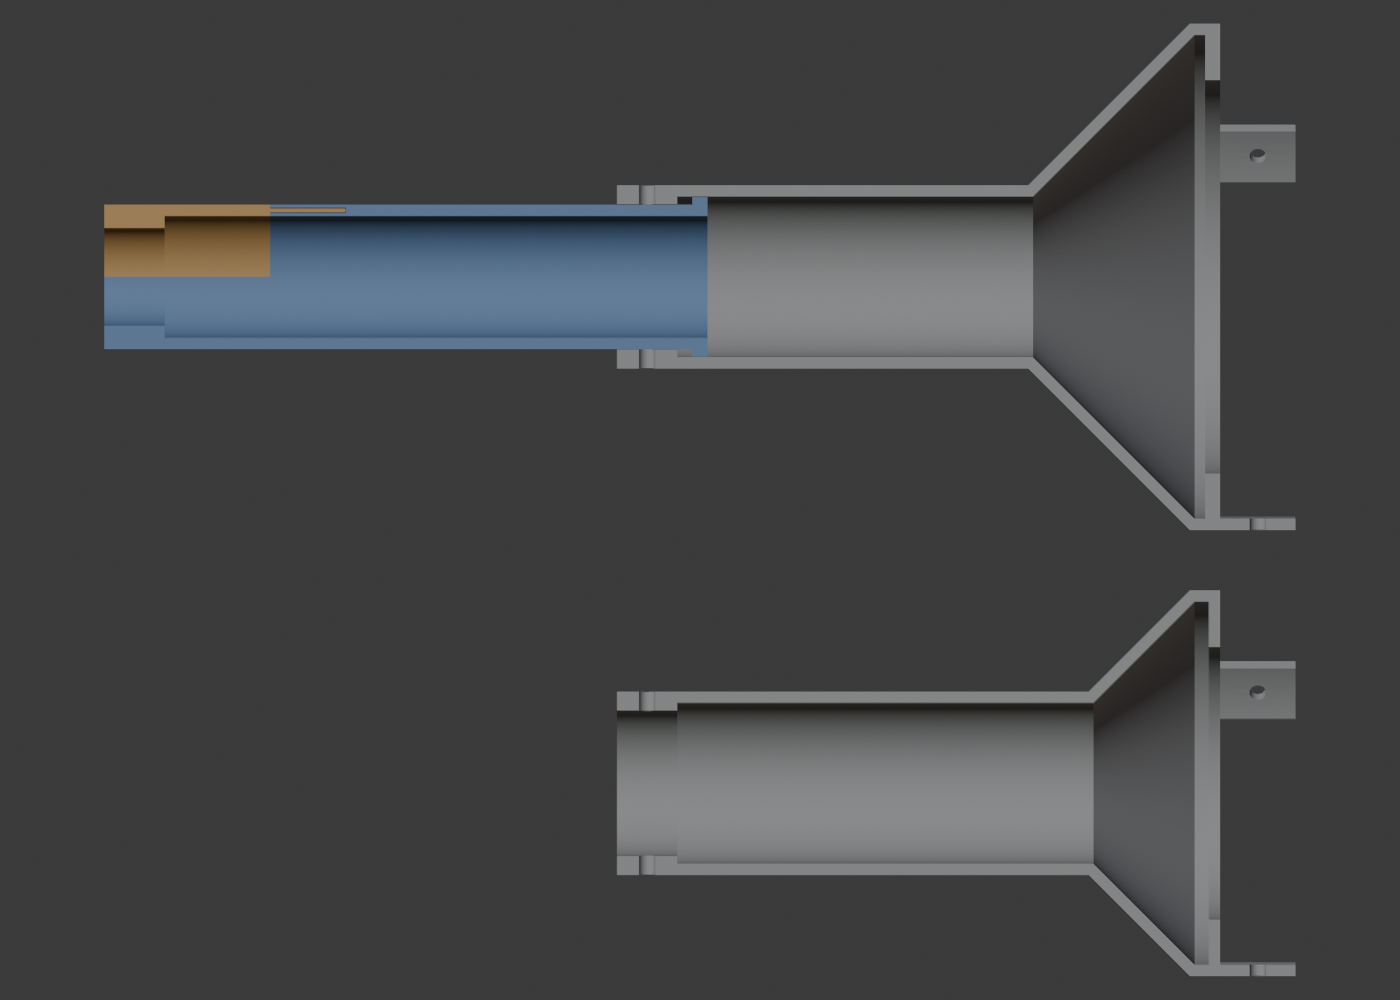
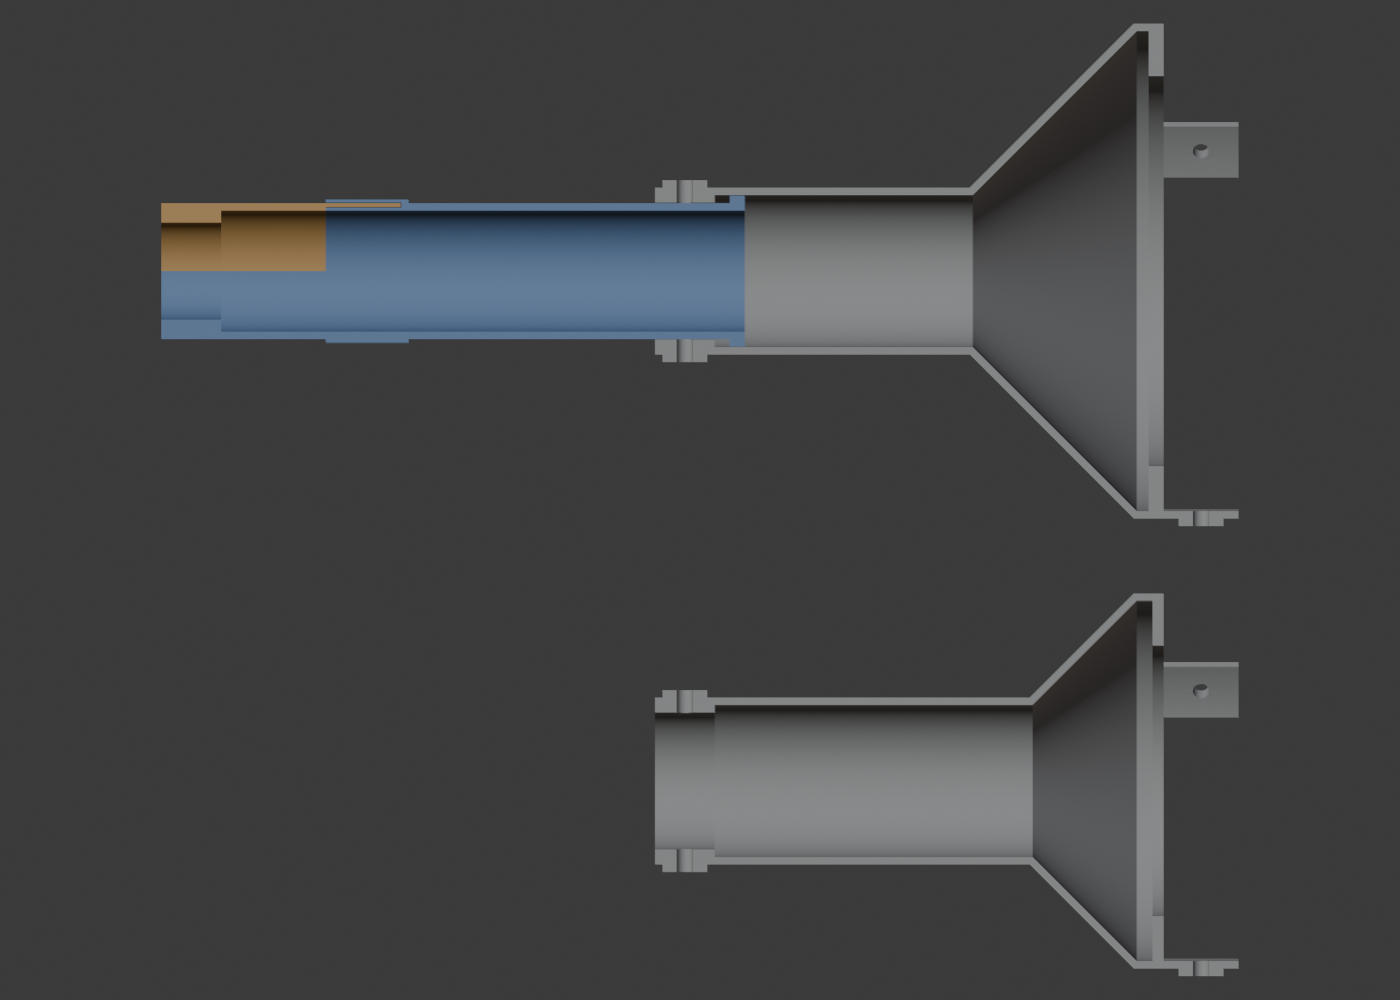
Fit the Ender-3 V2, thin walls to 1/8", pad screw holes and cover joint
ADAPTER_LENGTH 8.5" and MOUNT_LENGTH 9.75" keep every part under the
Ender-3 V2's 250 mm height. THICKNESS drops to 1/8". Each screw hole now
sits in a raised round pad, and the mount tube gets a band around the
tongue-and-groove joint so its walls stay printable. New PRINTER_MAX_HEIGHT
and PRINTER_BED_SIZE checks stop the build if a part won't fit.

Changed region(s): [[0.0614, 0.0, 0.9521, 0.527], [0.43, 0.589, 0.9521, 0.992]]

diff --git a/pld_camera_connector.py b/pld_camera_connector.py
@@ -25,7 +25,9 @@ A fourth, separate part sits below the assembly:
 
 All parameters are in inches (angles in degrees). The model itself is built in
 millimetres, so an exported STL comes out the right size for slicers; Blender
-displays lengths in inches. Every screw hole is sized to tap for 5/16"-24.
+displays lengths in inches. Every screw hole is sized to tap for 5/16"-24 and
+sits in a raised pad for more thread. The defaults fit an Ender-3 V2 with each
+part printed standing on end; the PRINTER_* checks enforce that.
 """
 
 import math
@@ -45,7 +47,8 @@ except ImportError:  # lets the profile math be checked outside Blender
 CAMERA_DIAMETER = 1.6        # camera neck, held at the camera end of the mount
 FOCUS_DIAL_DIAMETER = 2.0    # camera focus dial, the wider part of the camera
 VIEWPORT_DIAMETER = 8.0      # raised viewport flange the prongs clamp around
-THICKNESS = 3 / 16           # wall thickness of every part, including the prongs
+THICKNESS = 1 / 8            # wall thickness of every part, including the prongs
+                             # (screw holes and the cover joint get extra pads)
 
 
 # =============================================================================
@@ -62,16 +65,18 @@ FIT_CLEARANCE = 0.01         # radial gap wherever parts slide together or fit
                              # around the camera, glass or flange
 
 # ---- CameraMount and CameraCover --------------------------------------------
-MOUNT_LENGTH = 10.0          # overall length: neck section + focus dial section
+MOUNT_LENGTH = 9.75          # overall length: neck section + focus dial section
 NECK_BORE_LENGTH = 1.0       # length of the CAMERA_DIAMETER section at the camera end
 LIP_HEIGHT = 1 / 8           # radial height of the retaining lip at the chamber end
 LIP_THICKNESS = 1 / 4        # axial thickness of that lip
 COVER_LENGTH = 2.75          # length of the cover (= where the full tube starts)
 TONGUE_LENGTH = 1.25         # length of the cover's tongue that slides into the groove
 TONGUE_THICKNESS = 1 / 16    # radial thickness of the tongue
+JOINT_PAD_THICKNESS = 1 / 16 # extra wall on the outside of the mount tube where the
+                             # groove is, so the groove's walls aren't too thin
 
 # ---- ChamberAdapter ---------------------------------------------------------
-ADAPTER_LENGTH = 10.0        # front face to the face that sits on the flange (prongs extra)
+ADAPTER_LENGTH = 8.5         # front face to the face that sits on the flange (prongs extra)
 CONE_ANGLE = 45.0            # cone angle, degrees from the axis
 RIM_LENGTH = 0.5             # straight section between the cone and the flange face
 COLLAR_LENGTH = 1.0          # length of the bore that grips the mount tube
@@ -88,19 +93,21 @@ SCREW_HOLE_DIAMETER = 0.272  # tap drill (letter I), used for every screw hole
 SCREW_COUNT = 2              # collar set screws, evenly spaced
 SCREW_ANGLE = 90.0           # angle of the first collar screw (90 = straight up)
 SCREW_POSITION = None        # from the adapter front face; None = collar middle
+SCREW_PAD_DIAMETER = 0.75    # round pad on the outside around every screw hole
+SCREW_PAD_THICKNESS = 1 / 8  # how far the pad stands out, for more thread
 
 # ---- ChamberAdapter2: alternate 6" viewport, placed below the assembly ------
 # Each one means the same as the ChamberAdapter parameter with the same name
 # (ADAPTER2_LENGTH is the ADAPTER_LENGTH of this part).
 ADAPTER2_FOCUS_DIAL_DIAMETER = 2.0  # with ADAPTER2_THICKNESS, sets the tube size it fits
 ADAPTER2_VIEWPORT_DIAMETER = 6.0
-ADAPTER2_THICKNESS = 3 / 16
+ADAPTER2_THICKNESS = 1 / 8
 ADAPTER2_GLASS_DIAMETER = 4.5
 ADAPTER2_RECESS_DEPTH = 3 / 16
 ADAPTER2_FLANGE_HEIGHT = 1.375
 ADAPTER2_FIT_CLEARANCE = 0.01
 ADAPTER2_LIP_HEIGHT = 1 / 8
-ADAPTER2_LENGTH = 10.0
+ADAPTER2_LENGTH = 8.5
 ADAPTER2_CONE_ANGLE = 45.0
 ADAPTER2_RIM_LENGTH = 0.5
 ADAPTER2_COLLAR_LENGTH = 1.0
@@ -113,11 +120,17 @@ ADAPTER2_SCREW_HOLE_DIAMETER = 0.272
 ADAPTER2_SCREW_COUNT = 2
 ADAPTER2_SCREW_ANGLE = 90.0
 ADAPTER2_SCREW_POSITION = None
+ADAPTER2_SCREW_PAD_DIAMETER = 0.75
+ADAPTER2_SCREW_PAD_THICKNESS = 1 / 8
 ADAPTER2_GAP = 1.0                  # space between the assembly and ChamberAdapter2
 
 # ---- Size -------------------------------------------------------------------
 SCALE = 1.0                  # uniform scale for the whole finished model; the screw
                              # holes and clearances scale with it
+
+# ---- Printer (each part is checked printed standing on end) -----------------
+PRINTER_MAX_HEIGHT = 250 / 25.4  # Ender-3 V2: 250 mm; None skips the check
+PRINTER_BED_SIZE = 220 / 25.4    # Ender-3 V2: 220 x 220 mm; None skips the check
 
 # ---- Display ----------------------------------------------------------------
 SEGMENTS = 128               # facets around the axis (keep it a multiple of 4)
@@ -141,7 +154,8 @@ ADAPTER_KEYS = ("FOCUS_DIAL_DIAMETER", "VIEWPORT_DIAMETER", "THICKNESS", "GLASS_
                 "RECESS_DEPTH", "FLANGE_HEIGHT", "FIT_CLEARANCE", "LIP_HEIGHT", "ADAPTER_LENGTH",
                 "CONE_ANGLE", "RIM_LENGTH", "COLLAR_LENGTH", "PRONG_COUNT", "PRONG_WIDTH",
                 "PRONG_LENGTH", "PRONG_ANGLE", "PRONG_SCREW_POSITION", "SCREW_HOLE_DIAMETER",
-                "SCREW_COUNT", "SCREW_ANGLE", "SCREW_POSITION")
+                "SCREW_COUNT", "SCREW_ANGLE", "SCREW_POSITION", "SCREW_PAD_DIAMETER",
+                "SCREW_PAD_THICKNESS")
 
 
 def param_name(prefix, key):
@@ -190,6 +204,11 @@ def adapter_geometry(prefix=""):
     a["prong_half_angle"] = math.degrees(p["PRONG_WIDTH"] / 2 / r_mid)
     count = p["PRONG_COUNT"]
     a["prong_angles"] = [p["PRONG_ANGLE"] + 360.0 * i / count for i in range(count)]
+
+    # Size when printed standing on end, for the printer checks and layout.
+    pad = p["SCREW_PAD_THICKNESS"]
+    a["max_r"] = max(a["prong_out"] + (pad if count else 0), a["out"] + (pad if p["SCREW_COUNT"] else 0))
+    a["height"] = a["z_tip"] if count else a["z_end"]
     return a
 
 
@@ -201,12 +220,16 @@ def derived():
     g["r_neck"] = CAMERA_DIAMETER / 2 + FIT_CLEARANCE
     g["r_body"] = FOCUS_DIAL_DIAMETER / 2 + FIT_CLEARANCE
     g["r_out"] = g["r_body"] + THICKNESS
-    r_mid = (g["r_body"] + g["r_out"]) / 2
+    g["r_pad"] = g["r_out"] + JOINT_PAD_THICKNESS
+    # The tongue and groove sit in the middle of the padded wall at the joint.
+    r_mid = (g["r_body"] + g["r_pad"]) / 2
     g["tongue_in"] = r_mid - TONGUE_THICKNESS / 2
     g["tongue_out"] = r_mid + TONGUE_THICKNESS / 2
     g["groove_in"] = g["tongue_in"] - FIT_CLEARANCE
     g["groove_out"] = g["tongue_out"] + FIT_CLEARANCE
     g["groove_depth"] = TONGUE_LENGTH + FIT_CLEARANCE
+    g["pad_end"] = COVER_LENGTH + g["groove_depth"] + THICKNESS
+    g["max_r"] = g["r_out"] + max(LIP_HEIGHT, JOINT_PAD_THICKNESS)
 
     g["adapter"] = adapter_geometry()
     g["adapter2"] = adapter_geometry("ADAPTER2_")
@@ -224,11 +247,15 @@ def check_dimensions(g):
     need(CAMERA_DIAMETER > 0 and THICKNESS > 0, "CAMERA_DIAMETER and THICKNESS must be greater than 0")
     need(FOCUS_DIAL_DIAMETER >= CAMERA_DIAMETER, "FOCUS_DIAL_DIAMETER must be at least CAMERA_DIAMETER")
     need(0 < NECK_BORE_LENGTH < COVER_LENGTH, "NECK_BORE_LENGTH must be between 0 and COVER_LENGTH")
-    need(g["groove_in"] >= g["r_body"] + MIN_WALL and g["groove_out"] <= g["r_out"] - MIN_WALL,
-         "TONGUE_THICKNESS + 2 * FIT_CLEARANCE must fit inside THICKNESS with "
+    need(JOINT_PAD_THICKNESS >= 0, "JOINT_PAD_THICKNESS can't be negative")
+    need(g["tongue_out"] <= g["r_out"] + 1e-9,
+         "TONGUE_THICKNESS + JOINT_PAD_THICKNESS must not be more than THICKNESS "
+         "(the tongue has to sit on the cover's wall)")
+    need(g["groove_in"] >= g["r_body"] + MIN_WALL and g["groove_out"] <= g["r_pad"] - MIN_WALL,
+         "TONGUE_THICKNESS + 2 * FIT_CLEARANCE must fit inside THICKNESS + JOINT_PAD_THICKNESS with "
          f"{MIN_WALL:.3f} in of wall left on each side")
-    need(COVER_LENGTH + g["groove_depth"] < MOUNT_LENGTH - LIP_THICKNESS,
-         "COVER_LENGTH + TONGUE_LENGTH must be shorter than MOUNT_LENGTH minus LIP_THICKNESS")
+    need(g["pad_end"] <= MOUNT_LENGTH - LIP_THICKNESS,
+         "COVER_LENGTH + TONGUE_LENGTH + THICKNESS must not be longer than MOUNT_LENGTH minus LIP_THICKNESS")
 
     for a in (g["adapter"], g["adapter2"]):
         p = a["p"]
@@ -237,6 +264,16 @@ def check_dimensions(g):
             return param_name(a["prefix"], key)
 
         hole = p["SCREW_HOLE_DIAMETER"]
+        pad_r = p["SCREW_PAD_DIAMETER"] / 2
+        need(p["SCREW_PAD_THICKNESS"] >= 0, f"{n('SCREW_PAD_THICKNESS')} can't be negative")
+        need(pad_r >= hole / 2 + MIN_WALL,
+             f"{n('SCREW_PAD_DIAMETER')} must be at least {hole + 2 * MIN_WALL:.3f} (wider than the hole)")
+        if p["SCREW_COUNT"] > 0:
+            need(pad_r <= a["z_screw"] and a["z_screw"] + pad_r <= p["COLLAR_LENGTH"],
+                 f"the collar screw pads don't fit; make {n('COLLAR_LENGTH')} at least {2 * pad_r:.3f} "
+                 f"or move {n('SCREW_POSITION')}")
+            need(math.hypot(a["bore"] + 0.02, pad_r) < a["out"],
+                 f"{n('SCREW_PAD_DIAMETER')} is too wide for the curve of the collar")
         need(a["recess"] <= a["prong_in"] - MIN_WALL,
              f"{n('GLASS_DIAMETER')} must be smaller than {n('VIEWPORT_DIAMETER')}")
         need(a["prong_out"] > a["out"] + MIN_WALL,
@@ -257,23 +294,43 @@ def check_dimensions(g):
             need(2 * a["prong_half_angle"] * p["PRONG_COUNT"] < 360 - 5,
                  f"{n('PRONG_COUNT')} prongs of {n('PRONG_WIDTH')} don't fit around the flange")
             need(hole < p["PRONG_WIDTH"], f"{n('SCREW_HOLE_DIAMETER')} is wider than {n('PRONG_WIDTH')}")
-            need(a["z_end"] + hole / 2 <= a["z_prong_screw"] <= a["z_tip"] - hole / 2,
-                 f"{n('PRONG_SCREW_POSITION')} puts the screw hole off the end of the prong")
+            need(p["SCREW_PAD_DIAMETER"] <= p["PRONG_WIDTH"],
+                 f"{n('SCREW_PAD_DIAMETER')} is wider than {n('PRONG_WIDTH')}")
+            need(math.hypot(a["prong_in"] + 0.02, pad_r) < a["prong_out"],
+                 f"{n('SCREW_PAD_DIAMETER')} is too wide for the curve of the prongs")
+            need(a["z_end"] + pad_r <= a["z_prong_screw"] <= a["z_tip"] - pad_r,
+                 f"the prong screw pads run off the prong; make {n('PRONG_LENGTH')} longer "
+                 f"or move {n('PRONG_SCREW_POSITION')}")
 
     a = g["adapter"]
     need(INSERTION_DEPTH >= COLLAR_LENGTH + LIP_THICKNESS,
          "INSERTION_DEPTH must put the lip past the collar (>= COLLAR_LENGTH + LIP_THICKNESS)")
     need(INSERTION_DEPTH <= a["z_cone_in_start"],
          f"INSERTION_DEPTH must be <= {a['z_cone_in_start']:.2f} (where the inner cone starts)")
-    need(INSERTION_DEPTH < MOUNT_LENGTH - COVER_LENGTH - g["groove_depth"],
-         "the adapter would cover the cover/tube joint; reduce INSERTION_DEPTH or increase MOUNT_LENGTH")
+    need(INSERTION_DEPTH <= MOUNT_LENGTH - g["pad_end"],
+         f"INSERTION_DEPTH must be <= {MOUNT_LENGTH - g['pad_end']:.2f} so the adapter clears the cover joint")
+
+    # Each part printed standing on end.
+    sizes = {"CameraMount": (MOUNT_LENGTH, g["max_r"]),
+             "CameraCover": (COVER_LENGTH + TONGUE_LENGTH, g["r_out"]),
+             "ChamberAdapter": (a["height"], a["max_r"]),
+             "ChamberAdapter2": (g["adapter2"]["height"], g["adapter2"]["max_r"])}
+    for name, (height, radius) in sizes.items():
+        if PRINTER_MAX_HEIGHT is not None:
+            need(height * SCALE <= PRINTER_MAX_HEIGHT,
+                 f"{name} is {height * SCALE:.2f} in tall standing up; the printer fits {PRINTER_MAX_HEIGHT:.2f} in")
+        if PRINTER_BED_SIZE is not None:
+            need(2 * radius * SCALE <= PRINTER_BED_SIZE,
+                 f"{name} is {2 * radius * SCALE:.2f} in across; the printer bed fits {PRINTER_BED_SIZE:.2f} in")
     if problems:
         raise ValueError("Dimension problems:\n  - " + "\n  - ".join(problems))
 
 
 def clean(profile):
-    """Drop repeated points (e.g. when FOCUS_DIAL_DIAMETER == CAMERA_DIAMETER)."""
-    return [pt for i, pt in enumerate(profile) if pt != profile[i - 1]]
+    """Drop points that repeat the one before (e.g. when a pad is 0 or the
+    tongue is flush with the cover's outside)."""
+    return [pt for i, pt in enumerate(profile)
+            if abs(pt[0] - profile[i - 1][0]) > 1e-9 or abs(pt[1] - profile[i - 1][1]) > 1e-9]
 
 
 def adapter_profile(a):
@@ -308,6 +365,10 @@ def mount_profile(g):
     return clean([
         (g["r_neck"], 0.0),
         (g["r_out"], 0.0),
+        (g["r_out"], COVER_LENGTH),
+        (g["r_pad"], COVER_LENGTH),
+        (g["r_pad"], g["pad_end"]),
+        (g["r_out"], g["pad_end"]),
         (g["r_out"], MOUNT_LENGTH - LIP_THICKNESS),
         (g["r_out"] + LIP_HEIGHT, MOUNT_LENGTH - LIP_THICKNESS),
         (g["r_out"] + LIP_HEIGHT, MOUNT_LENGTH),
@@ -320,7 +381,7 @@ def mount_profile(g):
 def mount_cutter_profile(g):
     """Top-half region removed from the mount: the cover's space plus the groove."""
     r_in = g["r_neck"] / 2
-    r_big = g["r_out"] + LIP_HEIGHT + 0.1
+    r_big = g["max_r"] + 0.1
     return [
         (r_in, -0.1),
         (r_big, -0.1),
@@ -481,15 +542,15 @@ def finish_object(obj, mat):
 # PARTS
 # =============================================================================
 
-def add_radial_holes(bm, holes, r_in, r_out, diameter):
-    """Cylinders through the wall between r_in and r_out, one per (x, angle)."""
+def add_radial_cylinders(bm, spots, r_in, r_out, diameter):
+    """Cylinders running radially from r_in to r_out, one per (x, angle)."""
     r_mid = (r_in + r_out) / 2
-    for x, angle in holes:
+    for x, angle in spots:
         ang = math.radians(angle)
         place = (Matrix.Translation((x, r_mid * math.cos(ang), r_mid * math.sin(ang)))
                  @ Matrix.Rotation(ang - math.pi / 2, 4, 'X'))
         bmesh.ops.create_cone(bm, cap_ends=True, segments=48, radius1=diameter / 2,
-                              radius2=diameter / 2, depth=r_out - r_in + 0.2, matrix=place)
+                              radius2=diameter / 2, depth=r_out - r_in, matrix=place)
 
 
 def build_chamber_adapter(name, a, coll):
@@ -505,17 +566,25 @@ def build_chamber_adapter(name, a, coll):
                                  start=angle + a["prong_half_angle"],
                                  sweep=360.0 / count - 2 * a["prong_half_angle"]))
 
+    # Screw spots as (x, angle, inside radius, outside radius of the wall).
+    spots = [(a["z_screw"], p["SCREW_ANGLE"] + 360.0 * i / p["SCREW_COUNT"], a["bore"], a["out"])
+             for i in range(p["SCREW_COUNT"])]
+    spots += [(a["z_prong_screw"], angle, a["prong_in"], a["prong_out"]) for angle in a["prong_angles"]]
+    if not spots:
+        return adapter
+
+    # Raised pads on the outside, starting just outside the bore so they never
+    # poke into it, then holes through pad and wall.
+    pad = p["SCREW_PAD_THICKNESS"]
+    if pad > 0:
+        bm = bmesh.new()
+        for x, angle, r_in, r_out in spots:
+            add_radial_cylinders(bm, [(x, angle)], r_in + 0.02, r_out + pad, p["SCREW_PAD_DIAMETER"])
+        boolean(adapter, finish_mesh("ScrewPads", bm, coll), 'UNION')
     bm = bmesh.new()
-    if p["SCREW_COUNT"] > 0:
-        collar = [(a["z_screw"], p["SCREW_ANGLE"] + 360.0 * i / p["SCREW_COUNT"])
-                  for i in range(p["SCREW_COUNT"])]
-        add_radial_holes(bm, collar, a["bore"], a["out"], p["SCREW_HOLE_DIAMETER"])
-    prongs = [(a["z_prong_screw"], angle) for angle in a["prong_angles"]]
-    add_radial_holes(bm, prongs, a["prong_in"], a["prong_out"], p["SCREW_HOLE_DIAMETER"])
-    if bm.verts:
-        boolean(adapter, finish_mesh("ScrewHoles", bm, coll))
-    else:
-        bm.free()
+    for x, angle, r_in, r_out in spots:
+        add_radial_cylinders(bm, [(x, angle)], r_in - 0.1, r_out + pad + 0.1, p["SCREW_HOLE_DIAMETER"])
+    boolean(adapter, finish_mesh("ScrewHoles", bm, coll))
     return adapter
 
 
@@ -561,8 +630,8 @@ def main():
     adapter.location.x = (MOUNT_LENGTH - INSERTION_DEPTH) * k + explode
     cover.location = (-explode, 0.0, explode)
     # Directly below the ChamberAdapter, ADAPTER2_GAP clear of the assembly.
-    assembly_radius = max(g["adapter"]["prong_out"], g["r_out"] + LIP_HEIGHT)
-    drop = assembly_radius + ADAPTER2_GAP + g["adapter2"]["prong_out"]
+    assembly_radius = max(g["adapter"]["max_r"], g["max_r"])
+    drop = assembly_radius + ADAPTER2_GAP + g["adapter2"]["max_r"]
     adapter2.location = (adapter.location.x, 0.0, -drop * k)
 
     for obj, color in parts:
@@ -571,8 +640,8 @@ def main():
         finish_object(obj, matte_material(f"{obj.name} Matte", color))
     a = g["adapter"]
     print(f"Built {COLLECTION_NAME}: mount OD {2 * g['r_out'] * SCALE:.3f} in, "
-          f"adapter OD {2 * a['prong_out'] * SCALE:.3f} in, camera end to flange face "
-          f"{(MOUNT_LENGTH - INSERTION_DEPTH + a['z_end']) * SCALE:.2f} in")
+          f"adapter {2 * a['max_r'] * SCALE:.3f} in across x {a['height'] * SCALE:.2f} in tall, "
+          f"camera end to flange face {(MOUNT_LENGTH - INSERTION_DEPTH + a['z_end']) * SCALE:.2f} in")
 
 
 if __name__ == "__main__" and bpy is not None:

diff --git a/README.md b/README.md
@@ -22,13 +22,15 @@ This is the design being taken forward for 3D printing. Parameters are in inches
 - **ChamberAdapter**: grips the mount tube with set screws in its collar, then flares out to a face that sits on the viewport flange. An indent in that face fits around the protruding glass. Three prongs reach over the flange's side, each with a set screw that clamps onto it.
 - **ChamberAdapter2**: the same adapter, set up for the alternate 6" viewport and placed below the assembly. It has its own `ADAPTER2_*` parameters. `ADAPTER2_GAP` sets the space between it and the assembly.
 
-Every screw hole is sized to tap for 5/16"-24.
+Every screw hole is sized to tap for 5/16"-24. Each one sits in a raised pad (`SCREW_PAD_DIAMETER`, `SCREW_PAD_THICKNESS`), so there's more plastic for the threads. The mount tube also gets a band (`JOINT_PAD_THICKNESS`) where the cover's tongue slides in, so the walls on either side of the groove aren't too thin.
+
+The defaults fit an Ender-3 V2 (220 × 220 × 250 mm) with each part printed standing on end. The adapter is 9.75" tall including the prongs, and the mount is 9.75" long. `PRINTER_MAX_HEIGHT` and `PRINTER_BED_SIZE` make the script stop with an error if a part grows too big. Set them to `None` to skip the check.
 
 The main dimensions are in their own section at the top of the script:
 - `CAMERA_DIAMETER` (1.6") is the camera's neck.
 - `FOCUS_DIAL_DIAMETER` (2") is the camera's focus dial.
 - `VIEWPORT_DIAMETER` (8") is the raised viewport flange.
-- `THICKNESS` (3/16") is the wall thickness of every part, including the prongs.
+- `THICKNESS` (1/8") is the wall thickness of every part, including the prongs.
 
 The glass is set by `GLASS_DIAMETER` and `RECESS_DEPTH`. `INSERTION_DEPTH` sets how far the mount sits in the adapter, which sets the camera-to-viewport distance. `section_preview.png` is a cutaway render.
 
